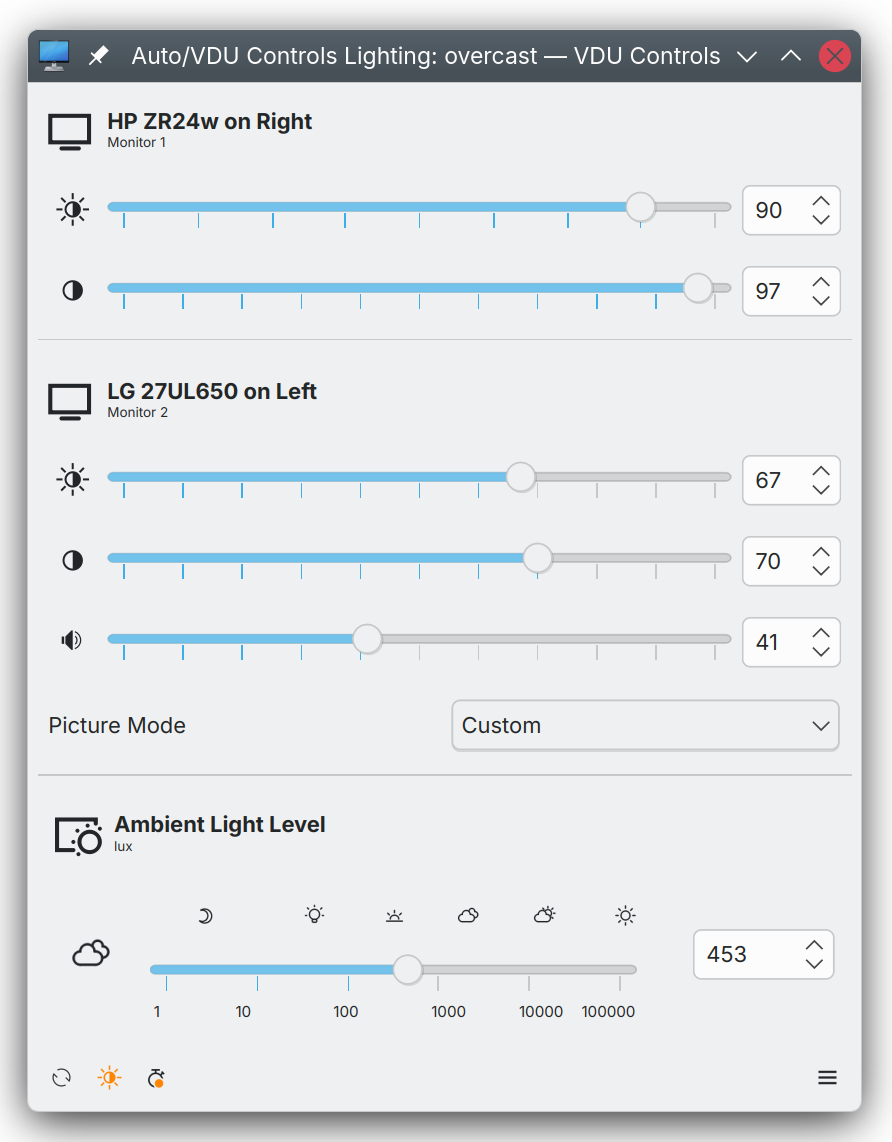
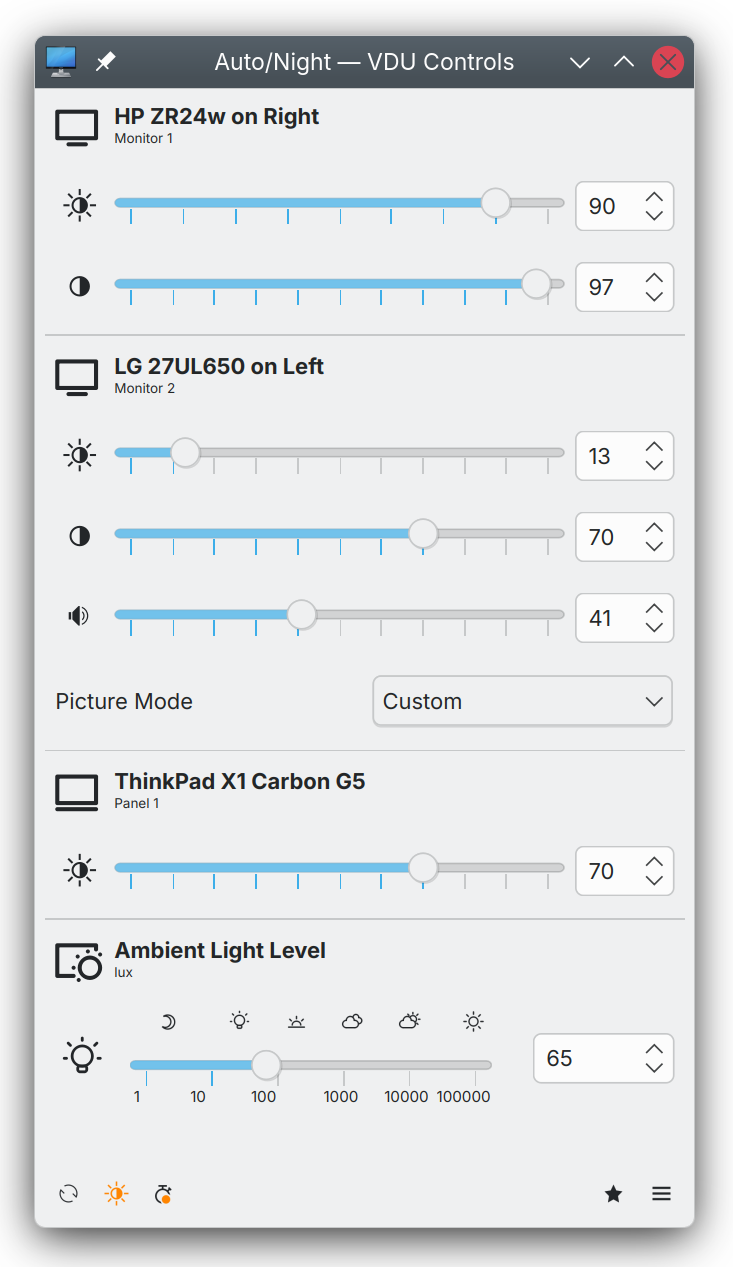
Laptop related instructions.

Changed region(s): [[0.0, 0.0, 0.9905, 1.0], [0.8104, 0.3371, 0.8404, 0.3678], [0.09, 0.2145, 0.1201, 0.2452]]

diff --git a/docs/_build/man/vdu_controls.1.html b/docs/_build/man/vdu_controls.1.html
@@ -68,8 +68,8 @@ equivalent settings.</p>
                         separate the status-bar from the toolbar
                         ``--no-separate-status-bar`` is the default
   --laptop-panels|--no-laptop-panels
-                        allow laptop panels to be controled
-                        ``--laptop-panels`` is the default
+                        allow laptop panels to be controlled
+                        ``--no-laptop-panels`` is the default
   --protect-nvram|--no-protect-nvram
                         alter options and defaults to minimize VDU NVRAM writes.
   --order-by-name|--no-order-by-name
@@ -103,7 +103,7 @@ equivalent settings.</p>
                         local latitude and longitude for triggering presets
                         by solar elevation.
   --ddcutil-emulator emulator-path
-                        additional command-line ddcutil emulator for a laptop panel
+                        additional command-line ddcutil emulator for a special cases.
   --sleep-multiplier    set the default ddcutil sleep multiplier.
                         protocol reliability multiplier for ddcutil (typically
                         0.1 .. 2.0, default is 1.0)
@@ -278,6 +278,16 @@ obtained from each VDU, however, vdu_controls supports adding
 <p>With this annotation, when ever <em>Picture Mode</em> is altered,
 vdu_controls will reload all configuration files and refresh all control
 values from the VDUs.</p>
+<h2 id="laptop-panel-brightness-control">Laptop-Panel brightness
+control</h2>
+<p>Starting with version 2.6, laptop panels are supported for
+brightness-only control. When laptop support is enabled, the widely
+available command line utility <code>brightnessctl</code> is used to
+emulate DDC control of brightness
+(https://github.com/Hummer12007/brightnessctl). Additionally,
+<code>vdu_controls</code> will react to laptop brightness-function-keys
+or inactivity-dimming by using the <code>python3-pyudev</code> library
+to monitor udev for <em>brightness</em> events.</p>
 <h2 id="dbus-ddcutil-service">DBUS ddcutil-service</h2>
 <p>When available, <code>vdu_controls</code> defaults to interacting
 with VDUs via the DBUS <code>ddcutil-service</code> service rather than
@@ -734,12 +744,6 @@ to discover whether a tray or dock is differently themed. As a result
 the application includes several manual settings that can alter the
 tray/dock icon theming between colored, monochrome-dark and
 monochrome-light.</p>
-<h2 id="laptops">Laptops</h2>
-<p>Starting with version 2.6, laptop panels are supported for
-brightness-only control. Because laptops do not implement DDC for
-built-in panels, <code>vdu_controls</code> emulates DDC/ddcutil using
-the widely available command-line tool <code>brightnessctl</code>
-(https://github.com/Hummer12007/brightnessctl).</p>
 <h2 id="other-concerns">Other concerns</h2>
 <p>The power-supplies in some older VDUs may buzz/squeel audibly when
 the brightness is turned way down. This may not be a major issue
@@ -795,7 +799,8 @@ disambiguate the noun/verb duality of “display” and “monitor”</p>
 <pre><code>    zypper install python3 python3-qt5 noto-sans-math-fonts noto-sans-symbols2-fonts
     zypper install ddcutil
     zypper install libddcutil ddcutil-service  # optional, but recommended if available
-    zypper install brightnessctl  # optional, but needed for controlling laptop-panels</code></pre>
+    zypper install brightnessctl  # optional, needed for controlling laptop-panels
+    zypper install python3-udev   # optional, needed for detecting brighntess changes on laptop-panels</code></pre>
 <p>If you wish to use a serial-port lux metering device, the
 <code>pyserial</code> module is a runtime requirement.</p>
 <p>Get ddcutil working first. Check that the detect command detects your

diff --git a/vdu_controls.py b/vdu_controls.py
@@ -76,8 +76,8 @@ Arguments supplied on the command line override config file equivalent settings.
                             separate the status-bar from the toolbar
                             ``--no-separate-status-bar`` is the default
       --laptop-panels|--no-laptop-panels
-                            allow laptop panels to be controled
-                            ``--laptop-panels`` is the default
+                            allow laptop panels to be controlled
+                            ``--no-laptop-panels`` is the default
       --protect-nvram|--no-protect-nvram
                             alter options and defaults to minimize VDU NVRAM writes.
       --order-by-name|--no-order-by-name
@@ -111,7 +111,7 @@ Arguments supplied on the command line override config file equivalent settings.
                             local latitude and longitude for triggering presets
                             by solar elevation.
       --ddcutil-emulator emulator-path
-                            additional command-line ddcutil emulator for a laptop panel
+                            additional command-line ddcutil emulator for a special cases.
       --sleep-multiplier    set the default ddcutil sleep multiplier.
                             protocol reliability multiplier for ddcutil (typically
                             0.1 .. 2.0, default is 1.0)
@@ -285,6 +285,16 @@ Can be annotated with::
 
 With this annotation, when ever *Picture Mode* is altered, vdu_controls will
 reload all configuration files and refresh all control values from the VDUs.
+
+Laptop-Panel brightness control
+-------------------------------
+
+Starting with version 2.6, laptop panels are supported for brightness-only control.
+When laptop support is enabled, the widely available command line utility ``brightnessctl``
+is used to emulate DDC control of brightness (https://github.com/Hummer12007/brightnessctl).
+Additionally, ``vdu_controls`` will react to laptop brightness-function-keys or
+inactivity-dimming by using the ``python3-pyudev`` library to monitor udev
+for _brightness_ events.
 
 DBUS ddcutil-service
 --------------------
@@ -722,14 +732,6 @@ whether a tray or dock is differently themed. As a result the application includ
 several manual settings that can alter the tray/dock icon theming between
 colored, monochrome-dark and monochrome-light.
 
-Laptops
--------
-
-Starting with version 2.6, laptop panels are supported for brightness-only control.
-Because laptops do not implement DDC for built-in panels, ``vdu_controls`` emulates
-DDC/ddcutil using the widely available command-line tool ``brightnessctl``
-(https://github.com/Hummer12007/brightnessctl).
-
 Other concerns
 --------------
 
@@ -793,7 +795,8 @@ Software::
         zypper install python3 python3-qt5 noto-sans-math-fonts noto-sans-symbols2-fonts
         zypper install ddcutil
         zypper install libddcutil ddcutil-service  # optional, but recommended if available
-        zypper install brightnessctl  # optional, but needed for controlling laptop-panels
+        zypper install brightnessctl  # optional, needed for controlling laptop-panels
+        zypper install python3-udev   # optional, needed for detecting brighntess changes on laptop-panels
 
 If you wish to use a serial-port lux metering device, the ``pyserial`` module is a runtime requirement.
 

diff --git a/README.md b/README.md
@@ -10,10 +10,7 @@ A control panel for external monitors (*Visual Display Units*).
 > be found under ***System Settings -> System -> Energy Saving***.
 
 > [!TIP]
-> Laptop-Panels are supported in version 2.6 (the current master/development branch).
-> Laptop support includes reacting to brightness-function-keys or inactivity-dimming.
-> When laptop support is enabled, the python3-pyudev library will be imported 
-> to monitor udev for _brightness_ events.
+> Laptop-Panels are supported in version 2.6 (see below).
 
 Description
 -----------
@@ -87,6 +84,15 @@ available to support all user defined Presets).
 > [!NOTE]
 > Several language translations are provided, but with no apparent demand, they 
 > are currently unmaintained and will be updated on request.
+
+#### Laptop-Panel brightness controls
+
+Starting with version 2.6, laptop panels are supported for brightness-only control.
+is enabled, the widely available command line utility [brightnessctl](https://github.com/Hummer12007/brightnessctl)
+is used to emulate DDC control of brightness.  
+Additionally, ``vdu_controls`` will react to laptop brightness-function-keys or 
+inactivity-dimming by using the ``python3-pyudev`` library to monitor udev 
+for _brightness_ events.
 
 #### Technical background
 